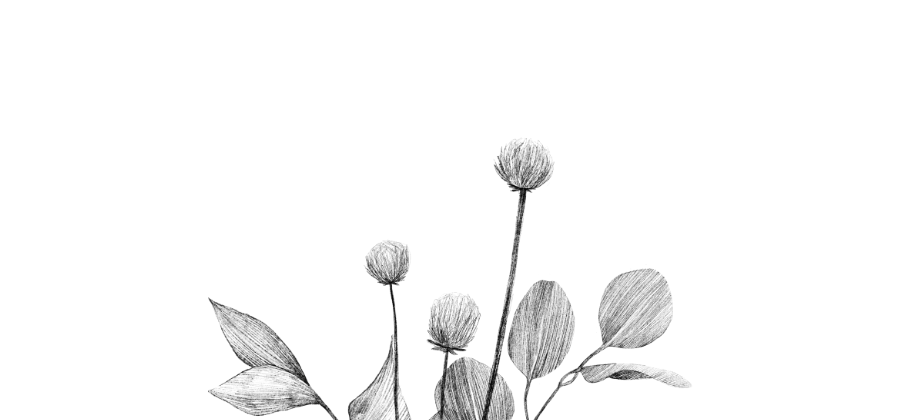
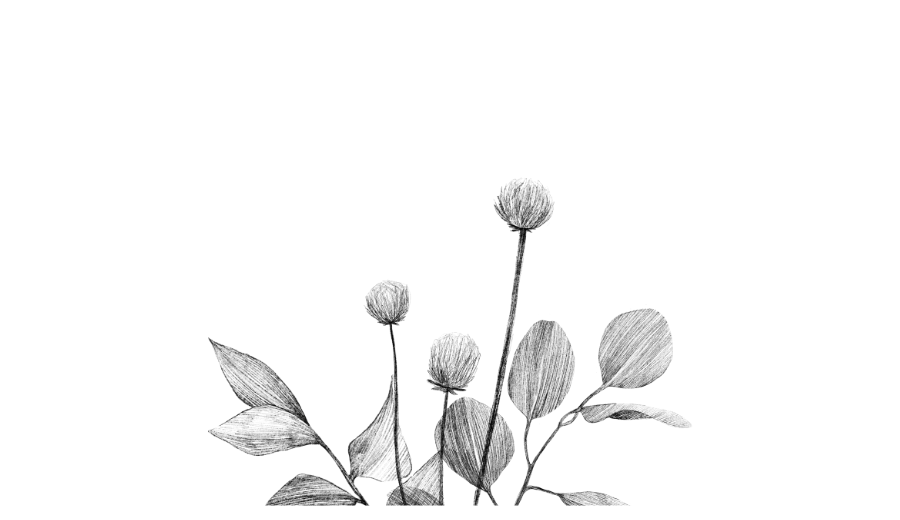
Header brand: larger centered plant + uppercase name; remove beige overlay + watermark; boost botanical saturation

Changed region(s): [[0.2178, 0.3405, 0.7778, 1.0]]

diff --git a/src/assets/site.css b/src/assets/site.css
@@ -57,20 +57,19 @@ body::before{
   background-size: cover;
   background-position: 50% 35%;
   /* more present + more blurred */
-  filter: blur(10px) saturate(1.15) contrast(1.02);
+  filter: blur(10px) saturate(1.35) contrast(1.05);
   transform: scale(1.06);
-  opacity: 0.78;
+  opacity: 0.82;
   pointer-events: none;
   z-index: -2;
 }
 body::after{
+  /* Removed: this was the beige "panel" wash between the background + content. */
   content:"";
   position: fixed;
   inset: 0;
-  background:
-    radial-gradient(900px 600px at 15% 10%, rgba(255,255,255,0.62), transparent 60%),
-    radial-gradient(800px 700px at 90% 15%, rgba(11,61,46,0.10), transparent 62%),
-    linear-gradient(180deg, rgba(246,242,236,0.85) 0%, rgba(246,242,236,0.72) 55%, rgba(246,242,236,0.80) 100%);
+  background: none;
+  opacity: 0;
   pointer-events: none;
   z-index: -1;
 }
@@ -88,17 +87,8 @@ body::after{
   padding: clamp(18px, 2.8vw, 30px);
   position: relative;
 }
-.page-panel::before{
-  content:"";
-  position:absolute;
-  inset:-120px;
-  background-image: url('images/plant-mark.png');
-  background-repeat:no-repeat;
-  background-size: 320px 180px;
-  background-position: 96% 10%;
-  opacity: 0.06;
-  pointer-events:none;
-}
+/* Removed watermark (was reading like a logo stamp on some pages). */
+.page-panel::before{content:none}
 
 a{color:inherit; text-decoration-color: rgba(11,61,46,0.35); text-underline-offset: 3px}
 a:hover{ text-decoration-color: rgba(11,61,46,0.7) }
@@ -129,10 +119,10 @@ a:focus-visible, button:focus-visible{
 }
 .header-inner{display:flex; align-items:center; justify-content:space-between; gap:18px}
 .brand{display:flex; align-items:center; gap:12px; text-decoration:none}
-.brand-stack{display:flex; flex-direction:column; gap:2px; align-items:flex-start}
+.brand-stack{display:flex; flex-direction:column; gap:4px; align-items:center}
 .brand-plant{
-  width: 110px;
-  height: 44px;
+  width: 160px;
+  height: 68px;
   object-fit: contain;
   border-radius: 14px;
   background: rgba(255,255,255,0.02);
@@ -143,9 +133,11 @@ a:focus-visible, button:focus-visible{
 .brand-title{
   font-family: var(--serif);
   font-weight: 400;
-  letter-spacing: 0;
+  letter-spacing: 0.14em;
+  text-transform: uppercase;
   color: var(--ink);
   line-height: 1.05;
+  font-size: 0.95rem;
 }
 
 .site-nav{display:flex; align-items:center; gap:12px}
